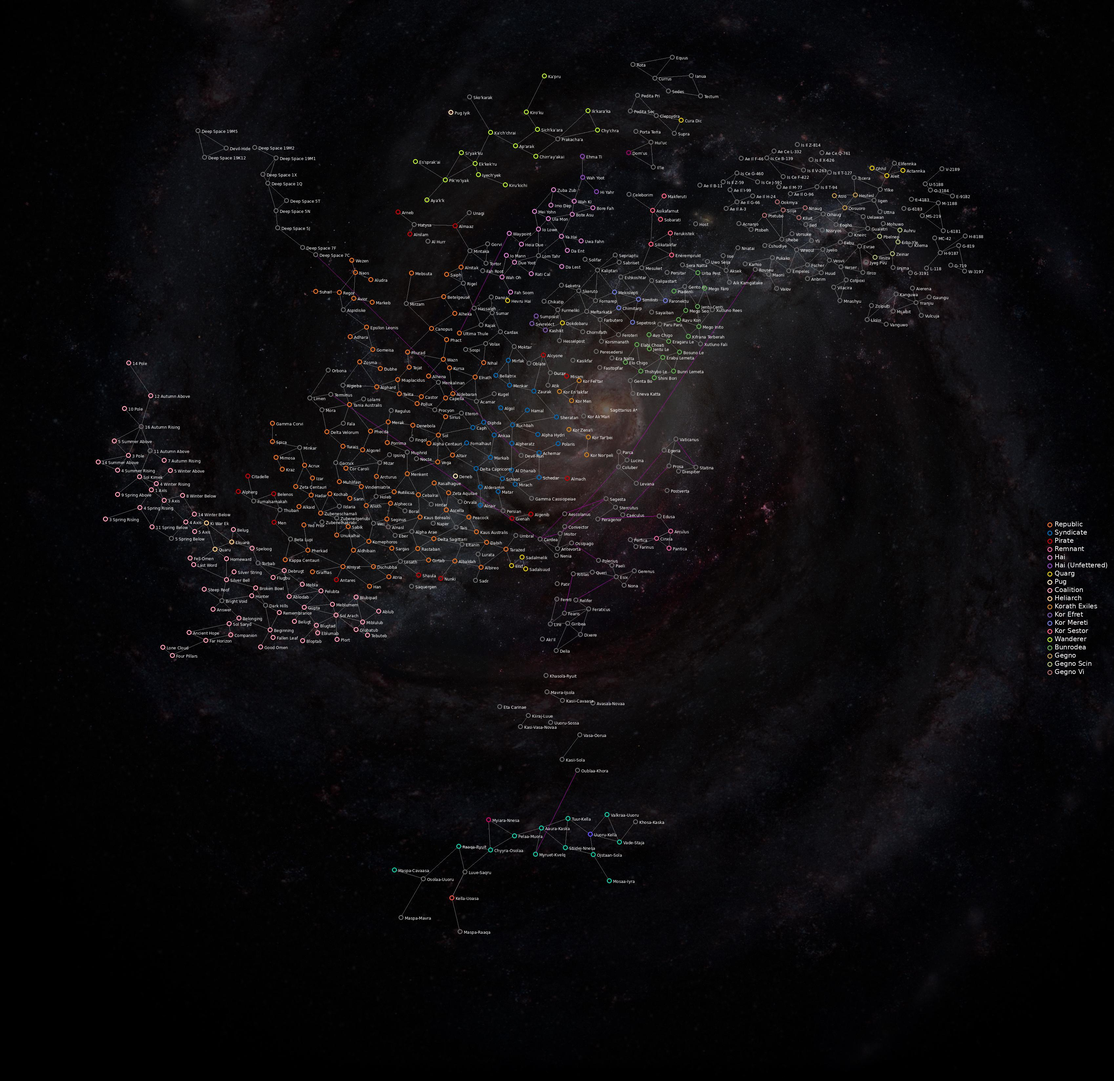
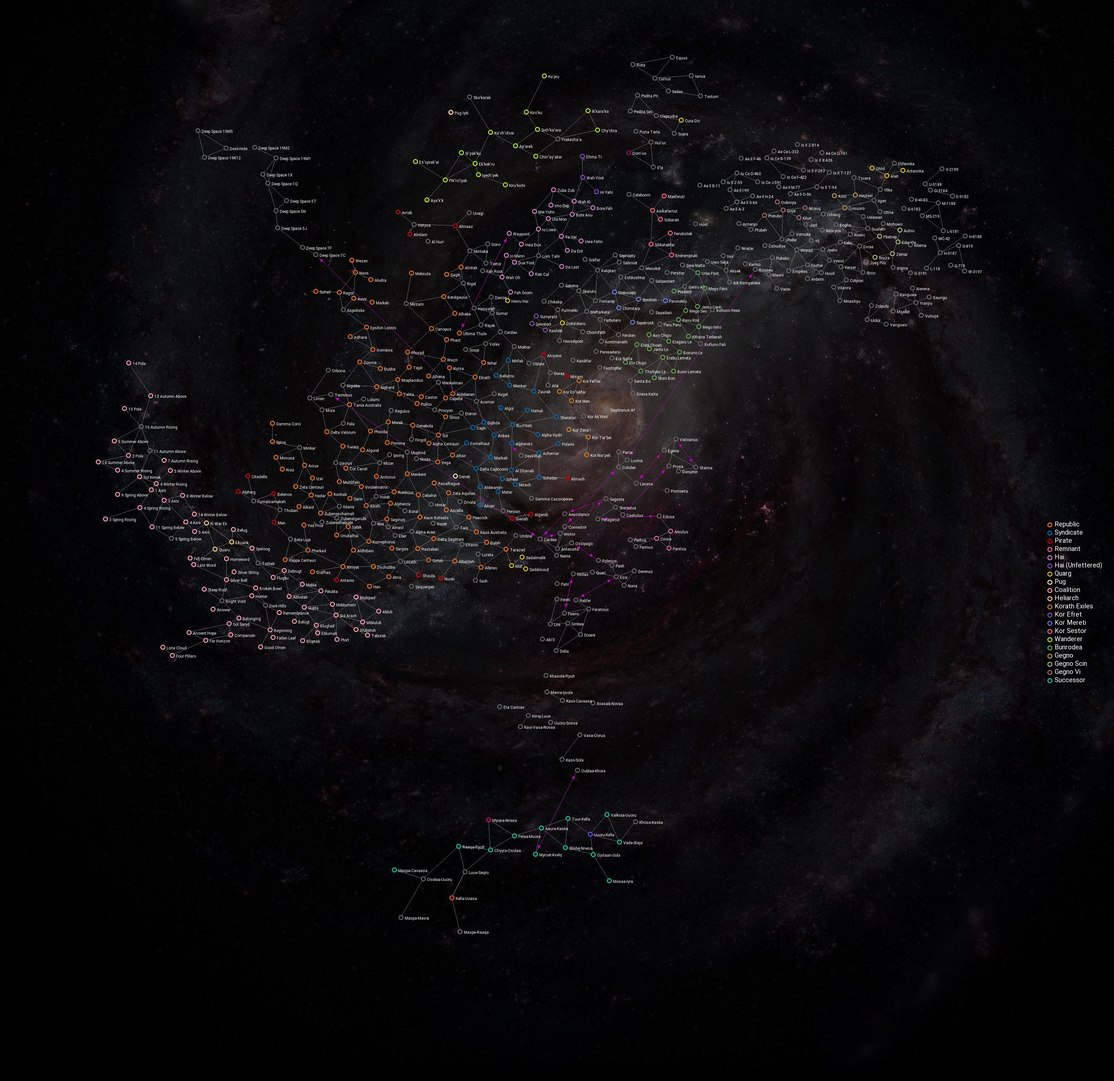
improve index.html

diff --git a/page/index.html b/page/index.html
@@ -13,18 +13,16 @@ color: #FFFFFF;
 <body>
 <div align="center">
 <br>
-<h1>ES-DataParser</h1>
-(online data folder browsing)
-<br>
-<br>
 <table style="text-align:center">
 <tr>
-<td style="width:200px"><a href="release/index.html" style="color: #80808;">release (0.10.10)</a></td>
-<td style="width:200px"><a href="continuous/index.html" style="color: #808080;">continuous (0.10.10 +)</a></td>
-<td style="width:200px"><a href="android/index.html" style="color: #80808;">android (0.10.10)</a></td>
-<td>&nbsp;&nbsp;&nbsp;&nbsp;&nbsp;&nbsp;&nbsp;&nbsp;&nbsp;&nbsp;&nbsp;&nbsp;&nbsp;&nbsp;&nbsp;&nbsp;</td>
-<td rowspan="5" style="font-size:11px;">
-wiki<br>
+<td colspan="3"><font size="18">ES-DataParser</font><br>
+(online data folder browsing)</td>
+<td rowspan="7">&nbsp;&nbsp;&nbsp;&nbsp;&nbsp;&nbsp;&nbsp;&nbsp;&nbsp;&nbsp;&nbsp;&nbsp;&nbsp;&nbsp;&nbsp;&nbsp;</td>
+<td rowspan="7" style="font-size:11px;">
+data parser<br>
+<a href="https://github.com/zuckung/ES-DataParser" target="about:blank">github repo</a><br>
+<br>
+ES wiki<br>
 <a href="https://github.com/endless-sky/endless-sky/wiki" target="about:blank">script wiki</a><br>
 <br>
 release<br>
@@ -37,9 +35,9 @@ continuous<br>
 <a href="https://github.com/endless-sky/endless-sky/commits/master/data" target="about:blank">data folder commits</a><br>
 <a href="https://github.com/EndlessSkyCommunity/ESLauncher2/releases" target="about:blank">ES Launcher 2</a><br>
 <br>
-mobile<br>
-<a href="https://github.com/thewierdnut/endless-mobile/releases" target="about:blank">github mobile</a><br>
-<a href="https://f-droid.org/packages/com.github.thewierdnut.endless_mobile" target="about:blank">f-droid mobile</a><br>
+android<br>
+<a href="https://github.com/thewierdnut/endless-mobile/releases" target="about:blank">github android</a><br>
+<a href="https://f-droid.org/packages/com.github.thewierdnut.endless_mobile" target="about:blank">f-droid android</a><br>
 <br>
 plugins<br>
 <a href="https://endless-sky.github.io/plugins.html" target="about:blank">official plugin list</a><br>
@@ -51,22 +49,29 @@ community<br>
 <a href="https://steamcommunity.com/app/404410/discussions" target="about:blank">ES steam</a><br>
 </td>
 </tr>
+<tr>
+<td><br></td>
+<td></td>
+<td></td>
+</tr>
+<tr>
+<td style="width:200px"><a href="release/index.html" style="color: #80808;">release (0.10.10)</a></td>
+<td style="width:200px"><a href="continuous/index.html" style="color: #808080;">continuous (0.10.10 +)</a></td>
+<td style="width:200px"><a href="android/index.html" style="color: #80808;">android (0.10.10)</a></td>
+</tr>
 <td style="font-size:11px;">release update: <br>[2024-10-26]</td>
 <td style="font-size:11px;">continuous update: <br>[2024-11-13]</td>
 <td style="font-size:11px;">android update: <br>[2024-10-26]</td>
-<td></td>
 <tr>
 </tr>
 <td style="font-size:11px;">release objects: <br>[7667]</td>
 <td style="font-size:11px;">continuous objects: <br>[7717]</td>
 <td style="font-size:11px;">android objects: <br>[7675]</td>
-<td></td>
 </tr>
 <tr>
 <td style="font-size:11px;"><a href="releasePillow.jpg"><img src='releasePillow.jpg' width='200'></a><br>(click to enlarge)</td>
 <td style="font-size:11px;"><a href="continuousPillow.jpg"><img src='continuousPillow.jpg' width='200'></a><br>(click to enlarge)</td>
 <td style="font-size:11px;"><a href="androidPillow.jpg"><img src='androidPillow.jpg' width='200'></a><br>(click to enlarge)</td>
-<td></td>
 <tr>
 </tr>
 </table>

diff --git a/res/src/pillow.py b/res/src/pillow.py
@@ -241,6 +241,28 @@ def line_length(start, end): # start (tuple): l(x1, y1) startpoint, end (tuple):
 	length = math.sqrt((x2 - x1)**2 + (y2 - y1)**2) 
 	return length # float line length
 
+
+def draw_arrow(x0, y0, x1, y1):
+	# Now we can work out the x,y coordinates of the bottom of the arrowhead triangle
+	xb = 0.95*(x1-x0)+x0
+	yb = 0.95*(y1-y0)+y0
+	# Work out the other two vertices of the triangle
+	# Check if line is vertical
+	if x0==x1:
+		vtx0 = (xb-5, yb)
+		vtx1 = (xb+5, yb)
+	# Check if line is horizontal
+	elif y0==y1:
+		vtx0 = (xb, yb+5)
+		vtx1 = (xb, yb-5)
+	else:
+		alpha = math.atan2(y1-y0,x1-x0)-90*math.pi/180
+		a = 4*math.cos(alpha)
+		b = 4*math.sin(alpha)
+		vtx0 = (xb+a, yb+b)
+		vtx1 = (xb-a, yb-b)
+	return vtx0, vtx1
+
 				
 def createImage(path):
 	print('  creating image')
@@ -284,12 +306,11 @@ def createImage(path):
 					start = linepoints[5]
 					end = linepoints[len(linepoints) - 6]
 					draw.line((start, end), fill=(204,0,204))
-					
-					# create code for wormhole direction here
-					# draw.polygon([(20,10), (200, 200), (100,20)], fill = (204,0,204))
-					# https://stackoverflow.com/questions/63671018/how-can-i-draw-an-arrow-using-pil
-					# opencv arrowedLine() ?
-					
+					# create arrows
+					x0, y0 = linepoints[len(linepoints)-20]
+					x1, y1 = linepoints[len(linepoints)-30]
+					vtx0, vtx1 = draw_arrow(x0, y0, x1, y1)
+					draw.polygon([vtx0, vtx1, linepoints[len(linepoints) - 20]], fill=(204,0,204))					
 	print('    drawing systems')
 	for each in systemNames:
 		inhab = False
